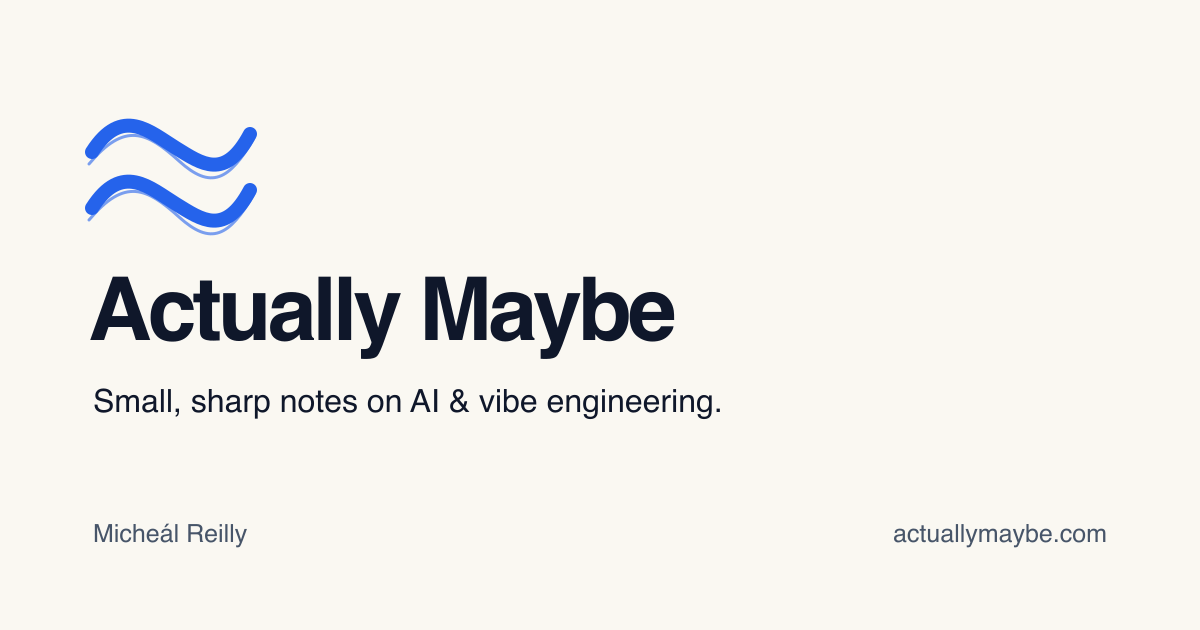
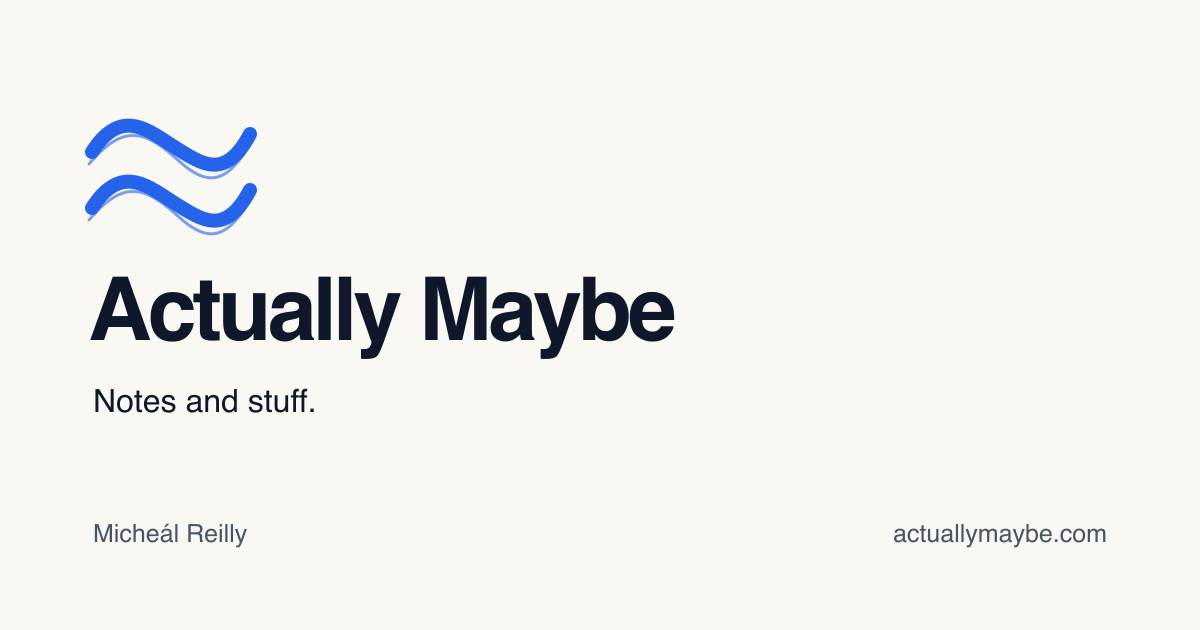
fix: simplify site tagline to notes and stuff

Changed region(s): [[0.0617, 0.6032, 0.6167, 0.6635]]

diff --git a/src/consts.ts b/src/consts.ts
@@ -4,4 +4,4 @@
 import { AUTHOR_NAME } from "./data/identity";
 
 export const SITE_TITLE = AUTHOR_NAME;
-export const SITE_DESCRIPTION = "Small, sharp notes on AI & vibe engineering.";
+export const SITE_DESCRIPTION = "Notes and stuff.";
